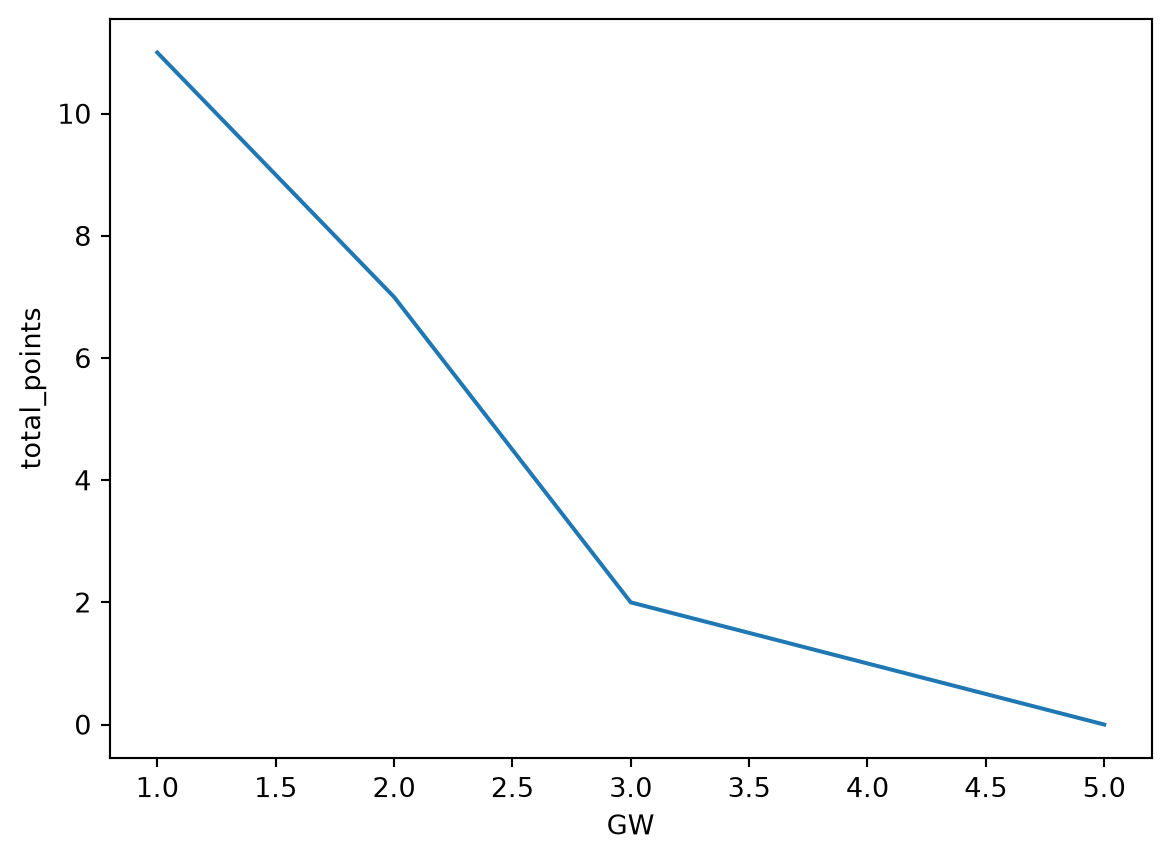
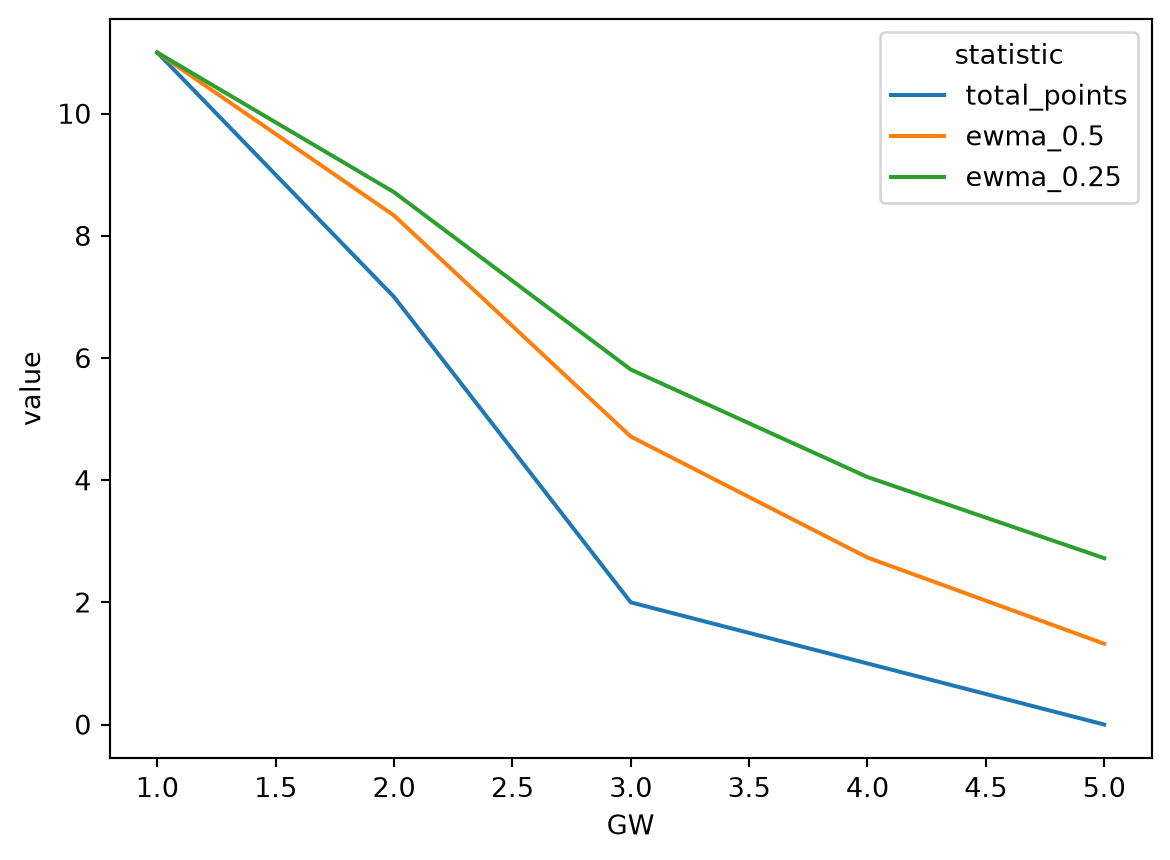
plot short and long ewmac

diff --git a/src/fpl/ewmac.py b/src/fpl/ewmac.py
@@ -35,6 +35,26 @@ def points_ts(pid):
               'plot':plot}
     return(result)
 
+def ewmac_ts(pid, short_alpha, long_alpha):
+    df = points_ts(pid)['df']
+    df['ewma_'+str(short_alpha)] = df['total_points'].ewm(alpha=short_alpha).mean()
+    df['ewma_'+str(long_alpha)] = df['total_points'].ewm(alpha=long_alpha).mean()
+
+    df_tidy = df[['GW', 'total_points', 'ewma_'+str(short_alpha), 'ewma_'+str(long_alpha)]].melt(
+            id_vars = 'GW',
+            var_name= 'statistic',
+            value_name= 'value'
+        )
+
+    ax = sns.lineplot(data=df_tidy, x='GW', y='value', hue='statistic')
+    plot = ax.figure
+    plt.close(plot)
+
+
+    result = {'df':df,
+              'plot':plot}
+
+    return(result)
+
 if __name__ == '__main__':
-    print(points_ts(10)['df'])
-    points_ts(10)['plot']
+    print(ewmac_ts(pid=10, short_alpha=0.5, long_alpha=0.25)['df'])
